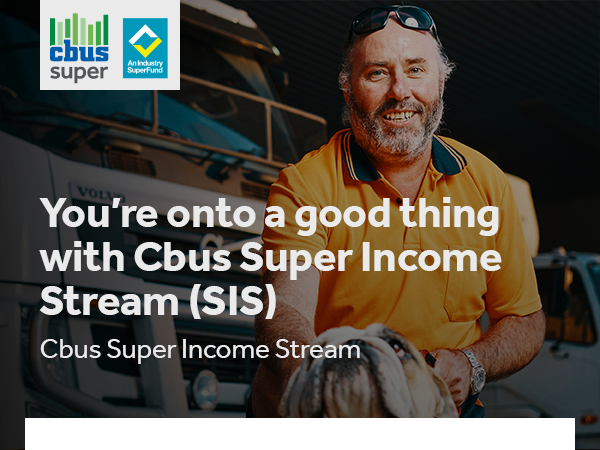
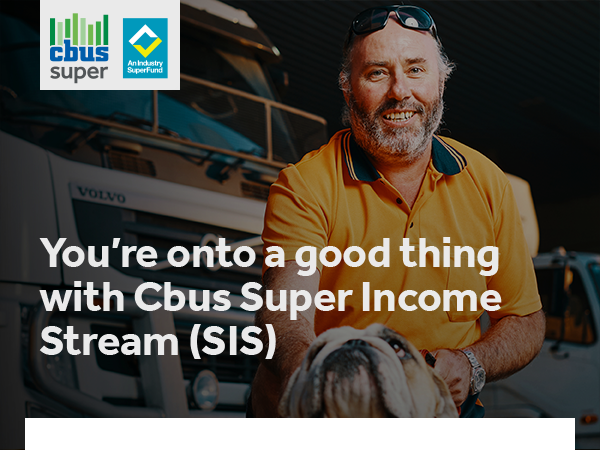
Update template 1 & 2

Changed region(s): [[0.06, 0.4356, 0.84, 0.8089]]

diff --git a/emails/2022/member-retention/young-cohort/2.html b/emails/2022/member-retention/young-cohort/2.html
@@ -86,11 +86,11 @@ a {text-decoration: none;}
           </p>
 
           <!-- Hero banner -->
-            <div style="color: #0F8045;font-weight: bold;font-size: 30px;line-height: 154px;" align="center">
-              <img style="border: 0;display: block;height: auto;width: 100%;max-width: 600px;" 
-                alt="Cbus: Making hard work pay off." width="600" 
-                src="https://www.cbussuper.com.au/content/dam/cbus/images/email/young-cohort/hero-yc-1.png">
-            </div>
+          <div style="color: #0F8045;font-weight: bold;font-size: 30px;line-height: 154px;" align="center">
+            <img style="border: 0;display: block;height: auto;width: 100%;max-width: 600px;" 
+              alt="Cbus: Making hard work pay off." width="600" 
+              src="https://www.cbussuper.com.au/content/dam/cbus/images/email/young-cohort/hero-yc-2.png">
+          </div>
   
           <!-- Member number -->
           <div class="m-id" style="Margin-left: 40px;Margin-right: 40px;Margin-bottom: 40px;">
@@ -111,10 +111,10 @@ a {text-decoration: none;}
             Hey {{profile.person.name.firstName}}, 
           </p>
           <p class="size-30" style="Margin-top: 0;Margin-bottom: 10px;font-family:'Hind',Tahoma,Arial,sans-serif;font-style: normal;font-weight: normal;font-size: 30px;line-height: 38px;">
-            <strong>Did you know? For many people, their super savings account may be their largest financial asset over their career</strong>
+            <strong>You work hard for your money.</strong>
           </p>
           <p class="size-22" style="Margin-top: 0;Margin-bottom: 10px;">
-            You may be working full-time now, and it pays off to learn how super works now!
+            As you become more independent, understand how to maximise your super, so all that hard work pays off.
           </p>
           </div>
         </div>
@@ -135,7 +135,7 @@ a {text-decoration: none;}
                         <tbody><tr>
                             <td style="width: 206px;height: 55px;background: #0F8045;border-radius: 4px;font-family: Hind,Calibri,Arial,sans-serif; font-size: 22px;text-align:center;">
                               <a target="_blank" href="https://www.cbussuper.com.au/" style="text-decoration: none; color: #fff; display: inline-block; border-top: 10px solid #0F8045; border-bottom: 10px solid #0F8045; border-right: 5px solid #0F8045;border-left: 5px solid #0F8045;">
-                                <strong style="font-family: Hind,Calibri,Arial,sans-serif;">Read now</strong>
+                                <strong style="font-family: Hind,Calibri,Arial,sans-serif;">Learn How</strong>
                               </a>
                             </td>
                         </tr>
@@ -224,20 +224,20 @@ a {text-decoration: none;}
             <div style="Margin-left: 20px;Margin-right: 20px;Margin-top: 24px;">
             <div style="mso-line-height-rule: exactly;mso-text-raise: 11px;vertical-align: middle;">
               <p class="size-22" style="Margin-top: 0;Margin-bottom: 10px;font-size: 20px;line-height: 28px;" lang="x-size-22">
-                <strong style="color: #1a1a1a;">Got spare change for your super?</strong>
+                <strong style="color: #1a1a1a;">Get your super working for you</strong>
               </p>
             </div>
             </div>
           
             <div style="Margin-left: 20px;Margin-right: 20px;Margin-bottom: 24px;">
               <div style="mso-line-height-rule: exactly;mso-text-raise: 11px;vertical-align: middle;">
-                <p style="Margin-top: 0;Margin-bottom: 0;">Think again if you don't have any extra cash to add to your super!</p>
+                <p style="Margin-top: 0;Margin-bottom: 0;">Grow your super balance more quickly. Setting up access to our online portal is a fantastic place to begin. </p>
               </div>
             </div>
 
             <!-- inner spacer desktop -->
-            <div class="sm-hide" style="Margin-left: 10px;Margin-right: 10px;Margin-bottom: 18px;">
-              <div style="mso-line-height-rule: exactly;line-height: 18px;font-size: 1px;">&nbsp;</div>
+            <div class="sm-hide" style="Margin-left: 10px;Margin-right: 10px;Margin-bottom: 3px;">
+              <div style="mso-line-height-rule: exactly;line-height: 3px;font-size: 1px;">&nbsp;</div>
             </div>
 
               <!-- Button -->
@@ -251,7 +251,7 @@ a {text-decoration: none;}
                               <tbody><tr>
                                   <td style="width: 206px;height: 55px;background: #0F8045;border-radius: 4px;font-family: Hind,Calibri,Arial,sans-serif; font-size: 22px;text-align:center;">
                                     <a target="_blank" href="https://www.cbussuper.com.au/" style="text-decoration: none; color: #fff; display: inline-block; border-top: 10px solid #0F8045; border-bottom: 10px solid #0F8045; border-right: 5px solid #0F8045;border-left: 5px solid #0F8045;">
-                                      <strong style="font-family: Hind,Calibri,Arial,sans-serif;">Calculate now</strong>
+                                      <strong style="font-family: Hind,Calibri,Arial,sans-serif;">Sign up</strong>
                                     </a>
                                   </td>
                               </tr>
@@ -283,31 +283,70 @@ a {text-decoration: none;}
     <div class="column" style="max-width: 320px;min-width: 290px; width: 320px;width: calc(18290px - 3000%);Float: left;">
       <table class="column__background" style="border-collapse: collapse;table-layout: fixed;background-color: #ffffff;" cellpadding="0" cellspacing="0" width="100%" role="presentation">
         <tbody><tr>
-          <td style="text-align: left;color: #454545;font-size: 18px;line-height: 26px;font-family: Arial,sans-serif;">
+          <td style="text-align: left;color: #454545;font-size: 16px;line-height: 26px;font-family: Arial,sans-serif;">
           
-            <div style="Margin-left: 20px;Margin-right: 20px;Margin-top: 24px;">
-            <div style="mso-line-height-rule: exactly;mso-text-raise: 11px;vertical-align: middle;">
-              <p class="size-22" style="Margin-top: 0;Margin-bottom: 10px;font-size: 20px;line-height: 28px;" lang="x-size-22">
-                <strong style="color: #1a1a1a;">Need a refresher on how super works?</strong>
-              </p>
-            </div>
-            </div>
-          
-            <div style="Margin-left: 20px;Margin-right: 20px;Margin-bottom: 24px;">
+          <div style="Margin-left: 20px;Margin-right: 20px;Margin-top: 24px;">
               <div style="mso-line-height-rule: exactly;mso-text-raise: 11px;vertical-align: middle;">
-                <p style="Margin-top: 0;Margin-bottom: 0;">
-                  In less than <strong>5-minutes</strong> (depending on how fast you read, it isn’t a race don’t worry), you can learn about how super works for you and why you should care.
+                <p class="size-22" style="Margin-top: 0;Margin-bottom: 10px;font-size: 20px;line-height: 28px;" lang="x-size-22">
+                  <strong style="color: #1a1a1a;">Don’t take shortcuts in your life. Check your insurance cover today</strong>
                 </p>
               </div>
-            </div>
-
-            <!-- inner spacer desktop -->
-            <div class="sm-hide" style="Margin-left: 10px;Margin-right: 10px;Margin-bottom: 5px;">
-              <div style="mso-line-height-rule: exactly;line-height: 5px;font-size: 1px;">&nbsp;</div>
-            </div>
+          </div>    
+            <div style="Margin-left: 19px;Margin-right: 20px;Margin-bottom: 24px;">
+              <div style="mso-line-height-rule: exactly;mso-text-raise: 0;vertical-align: middle;">
+              <table border="0" style="border-collapse: collapse;table-layout: fixed;" role="presentation">
+                <tbody>
+                  <tr>
+                    <td colspan="2" style="color: #454545;font-family: Arial,sans-serif;font-size: 16px;line-height: 24px;">
+                      <p class="size-16" style="Margin-top: 0px;Margin-bottom: 0;font-size:16px;">
+                        Login to the <a class="hover" target="_blank" style="color: #454545; font-weight: bold;" href="https://www.cbussuper.com.au">member login</a> so can: 
+                      </p>
+                  </tr>
+                  <tr> 
+                    <td colspan="2" height="4"></td> 
+                  </tr> 
+                  <tr role="point-1">
+                    <td valign="top" class="" style="width: 28px;color: #0F8045;font-size: 28px;text-align: center;">
+                      <img alt="☑" src="https://www.cbussuper.com.au/content/dam/cbus/images/email/green-box-tick.png" width="20">
+                    </td>
+                    <td style="color: #454545;font-family: Arial,sans-serif;font-size: 16px;line-height: 24px;padding-left: 8px;">
+                      <p class="size-16" style="Margin-top: 0px;Margin-bottom: 0;font-size:16px;">
+                        See your insurance cover
+                      </p>
+                    </td>
+                  </tr>
+                  <tr> 
+                    <td colspan="2" height="2"></td> 
+                  </tr>
+                  <tr role="point-2">
+                    <td valign="top" class="" style="width: 28px;color: #0F8045;font-size: 28px;text-align: center;">
+                      <img alt="☑" src="https://www.cbussuper.com.au/content/dam/cbus/images/email/green-box-tick.png" width="20">
+                    </td>
+                    <td style="color: #454545;font-family: Arial,sans-serif;font-size: 16px;line-height: 24px;padding-left: 8px;">
+                      <p class="size-16" style="Margin-top: 0px;Margin-bottom: 0;font-size:16px;">
+                        Apply for a life event increase 
+                      </p>
+                    </td>
+                  </tr>
+                  <tr> 
+                    <td colspan="2" height="2"></td> 
+                  </tr>
+                  <tr role="point-3">
+                    <td valign="top" class="" style="width: 28px;color: #0F8045;font-size: 28px;text-align: center;">
+                      <img alt="☑" src="https://www.cbussuper.com.au/content/dam/cbus/images/email/green-box-tick.png" width="20">
+                    </td>
+                    <td style="color: #454545;font-family: Arial,sans-serif;font-size: 16px;line-height: 24px;padding-left: 8px;">
+                      <p class="size-16" style="Margin-top: 0px;Margin-bottom: 0;font-size:16px;padding-bottom: 0;">
+                        Increase/change your cover <span class="sm-hide"><br/></span>and more!
+                        <span><br/>&nbsp;</span>
+                      </p>
+                    </td>
+                  </tr>
+                </tbody>
+                </table>
+              </div>
 
               <!-- Button -->
-              <div style="Margin-left: 20px;Margin-right: 20px;Margin-bottom: 28px;">
                 <table width="100%" border="0" cellspacing="0" cellpadding="0" style="border-collapse: collapse;">
                   <tbody>
                   <tr>
@@ -317,7 +356,7 @@ a {text-decoration: none;}
                               <tbody><tr>
                                   <td style="width: 206px;height: 55px;background: #0F8045;border-radius: 4px;font-family: Hind,Calibri,Arial,sans-serif; font-size: 22px;text-align:center;">
                                     <a target="_blank" href="https://www.cbussuper.com.au/" style="text-decoration: none; color: #fff; display: inline-block; border-top: 10px solid #0F8045; border-bottom: 10px solid #0F8045; border-right: 5px solid #0F8045;border-left: 5px solid #0F8045;">
-                                      <strong style="font-family: Hind,Calibri,Arial,sans-serif;">Read now</strong>
+                                      <strong style="font-family: Hind,Calibri,Arial,sans-serif;">Check Now</strong>
                                     </a>
                                   </td>
                               </tr>
@@ -329,6 +368,7 @@ a {text-decoration: none;}
                     </tr>
                 </tbody>
               </table>
+
               </div>
           
           </td>
@@ -358,8 +398,8 @@ a {text-decoration: none;}
             </div>
 
             <!-- inner spacer desktop -->
-            <div class="sm-hide" style="Margin-left: 10px;Margin-right: 10px;Margin-bottom: 3px;">
-              <div style="mso-line-height-rule: exactly;line-height: 3px;font-size: 1px;">&nbsp;</div>
+            <div class="sm-hide" style="Margin-left: 10px;Margin-right: 10px;Margin-bottom: 6px;">
+              <div style="mso-line-height-rule: exactly;line-height: 6px;font-size: 1px;">&nbsp;</div>
             </div>
 
             <!-- Inner image -->
